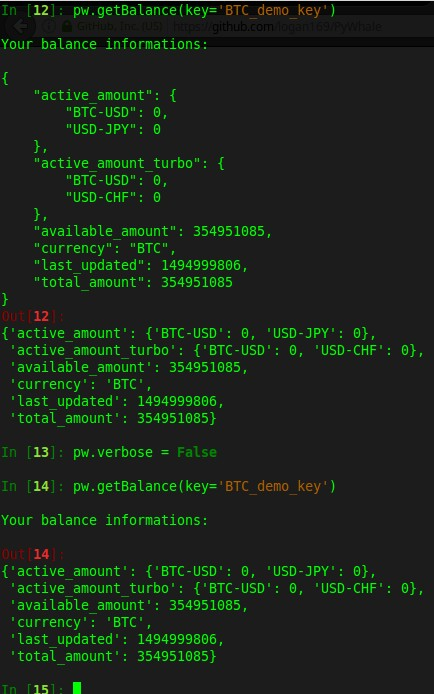
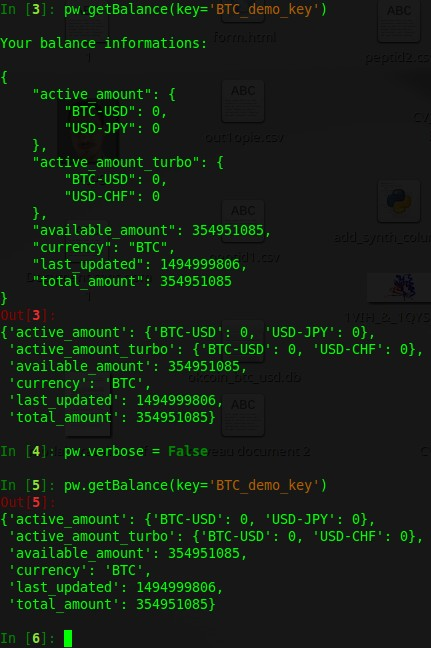
change verbose pict and remove bad space/tab indent

diff --git a/app/pywhale/trade/Live.py b/app/pywhale/trade/Live.py
@@ -140,9 +140,8 @@ currency		string 	Base currency.
 		h = {"Authorization":"Bearer "+key,"Partner-ID":"pnI1A"}
 		r = requests.post(url,headers=h,data=d)
 
-		
-        if self.verbose:
-		    print ('\nCreating a Position:')
+		if self.verbose:
+			print ('\nCreating a Position:')
 
 		return self._checkResp(r)
 
@@ -199,9 +198,8 @@ currency		string 	Base currency.
 		h = {"Authorization":"Bearer "+key,"Partner-ID":"pnI1A"}
 		r = requests.get(url,headers=h)
 
-		
-        if self.verbose:
-		    print ('\nGet position information: \n')
+		if self.verbose:
+			print ('\nGet position information: \n')
 
 		return self._checkResp(r)
 
@@ -287,9 +285,8 @@ currency		string 	Base currency.
 		h = {"Authorization":"Bearer "+key,"Partner-ID":"pnI1A"}
 		r = requests.put(url, headers=h, data=d)
 
-		
-        if self.verbose:
-		    print ('\nUpdating position : \n')
+		if self.verbose:
+			print ('\nUpdating position : \n')
 
 		return self._checkResp(r)
 
@@ -355,9 +352,8 @@ currency		string 	Base currency.
 		h = {"Authorization":"Bearer "+key,"Partner-ID":"pnI1A"}
 		r = requests.put(url, headers=h)
 
-		
-        if self.verbose:
-		    print ('\nClosing position : \n')
+		if self.verbose:
+			print ('\nClosing position : \n')
 
 		return self._checkResp(r)
 
@@ -416,9 +412,8 @@ currency		string 	Base currency.
 		h = {"Authorization":"Bearer "+key,"Partner-ID":"pnI1A"}
 		r = requests.put(url, headers=h)
 
-		
-        if self.verbose:
-		    print ('\nCanceling position: \n')
+		if self.verbose:
+			print ('\nCanceling position: \n')
 
 		return self._checkResp(r)
 
@@ -485,9 +480,8 @@ currency		string 	Base currency.
 		h = {"Authorization":"Bearer "+key,"Partner-ID":"pnI1A"}
 		r = requests.post(url, headers=h,data=d)
 
-		
-        if self.verbose:
-		    print ('\nSplitting position : \n')
+		if self.verbose:
+			print ('\nSplitting position : \n')
 
 		return self._checkResp(r)
 
@@ -556,8 +550,7 @@ currency		string 	Base currency.
 		h = {"Authorization":"Bearer "+key,"Partner-ID":"pnI1A"}
 		r = requests.get(url,headers=h,data = d)
 
-		
-        if self.verbose:
-		    print ('\nListing all Transactions: \n')
+		if self.verbose:
+			print ('\nListing all Transactions: \n')
 
 		return self._checkResp(r)

diff --git a/app/pywhale/trade/Turbo.py b/app/pywhale/trade/Turbo.py
@@ -48,9 +48,9 @@ expires_at		integer		When the contract expires and turbo positions settle.
 		url = self.start_url+'contracts'
 		h = {"Authorization":"Bearer "+key,"Partner-ID":"pnI1A"}
 		r = requests.get(url,headers=h)
-        
-        if self.verbose:
-		    print ('\nListing available active turbo contract: \n')
+
+		if self.verbose:
+			print ('\nListing available active turbo contract: \n')
 
 		return self._checkResp(r)
 
@@ -126,9 +126,8 @@ currency 	string 		Base currency.
 		h = {"Authorization":"Bearer "+key,"Partner-ID":"pnI1A"}
 		r = requests.post(url, headers=h, data=d)
 
-		
-        if self.verbose:
-		    print ('\nOpening a turbo position: \n')
+		if self.verbose:
+			print ('\nOpening a turbo position: \n')
 
 		return self._checkResp(r)
 
@@ -175,9 +174,8 @@ currency 	string 		Base currency.
 		h = {"Authorization":"Bearer "+key,"Partner-ID":"pnI1A"}
 		r = requests.get(url, headers=h)
 
-		
-        if self.verbose:
-		    print ('\nTurbo position informations: \n')
+		if self.verbose:
+			print ('\nTurbo position informations: \n')
 
 		return self._checkResp(r)
 
@@ -235,8 +233,7 @@ currency 	string 		Base currency.
 		h = {"Authorization":"Bearer "+key,"Partner-ID":"pnI1A"}
 		r = requests.get(url,headers=h,data = d)
 
-		
-        if self.verbose:
-		    print ('\nListing all turbo positions: \n')
+		if self.verbose:
+			print ('\nListing all turbo positions: \n')
 
 		return self._checkResp(r)

diff --git a/app/pywhale/trade/General.py b/app/pywhale/trade/General.py
@@ -58,9 +58,8 @@ turbo 			object	Information about turbo trading, if it’s available for this ma
 		h = {"Authorization":"Bearer "+key,"Partner-ID":"pnI1A"}
 		r = requests.get(url,headers=h)
 
-		
-        if self.verbose:
-		    print ('\nMarkets informations: \n')
+		if self.verbose:
+		    print('\nMarkets informations: \n')
 
 		return self._checkResp(r)
 
@@ -100,10 +99,10 @@ last_updated	integer		When prices for this market were last updated.
 		url = self.start_url+'price/' + str(symbols)
 		h = {"Authorization":"Bearer "+key,"Partner-ID":"pnI1A"}
 		r = requests.get(url,headers=h)
-
 		
-        if self.verbose:
-		    print ('\nPrice informations: \n')
+		if self.verbose:
+			print('\nPrice informations: \n')
+        
 
 		return self._checkResp(r)
 
@@ -141,9 +140,8 @@ currency		string		Base currency.
 		h = {"Authorization":"Bearer "+key,"Partner-ID":"pnI1A"}
 		r = requests.get(url,headers=h)
 
-		
-        if self.verbose:
-		    print ('\nYour balance informations: \n')
+		if self.verbose:
+			print ('\nYour balance informations: \n')
 
 		return self._checkResp(r)
 
@@ -193,9 +191,8 @@ currency 	string 		Base currency.
 		d = {'limit':limit}
 		r = requests.get(url,headers=h,)
 
-		
-        if self.verbose:
-		    print ('\nYour Transactions history: \n')
+		if self.verbose:
+			print ('\nYour Transactions history: \n')
 
 		return self._checkResp(r)
 	

diff --git a/app/PyWhale.py b/app/PyWhale.py
@@ -81,5 +81,6 @@ class PyWhale(Api,General,Live,Turbo):
 
 	
 		
+pw = PyWhale()
 
 
